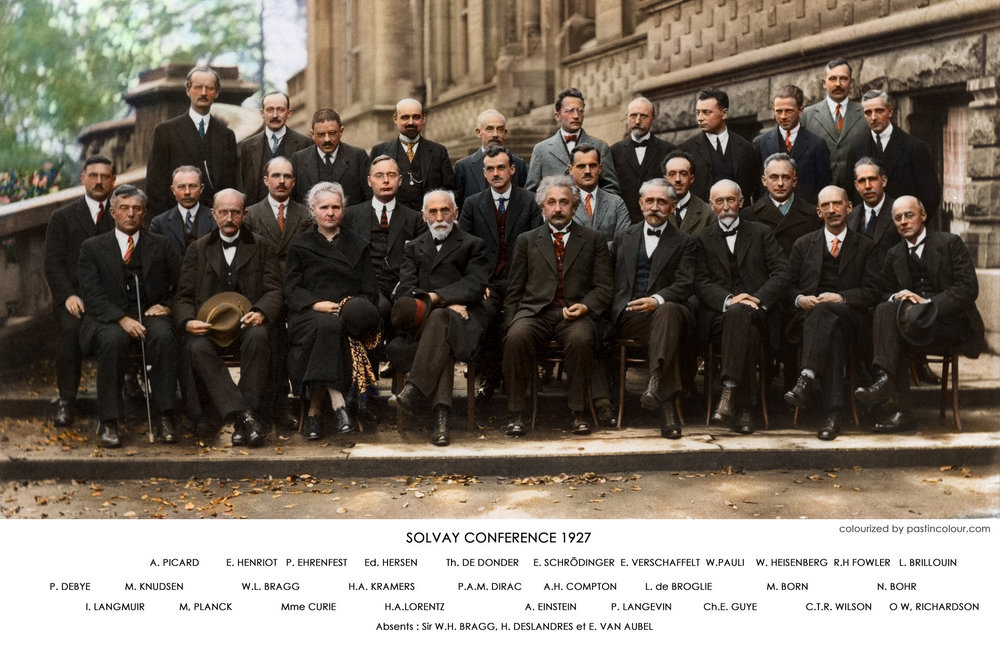
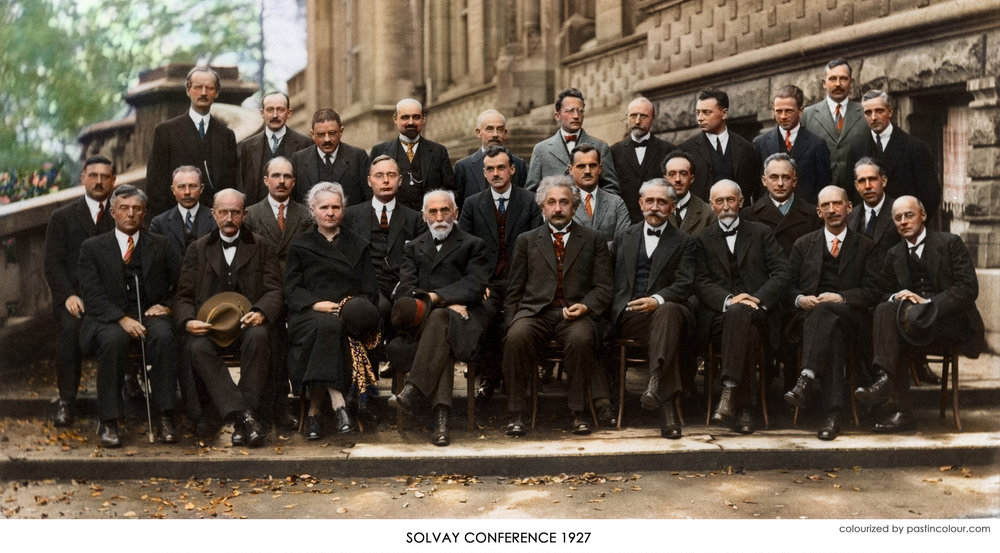
4è : maj calcul littéral

diff --git a/4_quatrieme/4x5-calcul-litteral-1/4x5-calcul-litteral.tex b/4_quatrieme/4x5-calcul-litteral-1/4x5-calcul-litteral.tex
@@ -66,7 +66,7 @@
 
 \section*{1 - Modéliser - Le domaine des mathématiques}
 
-Trouver, créer et utiliser des outils pour répondre à des questions. Le monde peut être \textbf{modéliser} par des mathématiques. Mais tous les outils ne sont pas encore créés. On ne connaît pas tout. Il y a des inconnues. 
+Trouver, créer et utiliser des outils mathématiques pour répondre à des questions. On peut \textbf{modéliser} le monde avec des mathématiques. En mathématiques, on ne travaille pas toujours avec des choses connues. On ne connaît pas directement la réponse. C'est pourquoi, on travaille avec des des inconnues. 
 
 \begin{center}
 {\fontfamily{jkplos}\selectfont 
@@ -76,8 +76,7 @@ Trouver, créer et utiliser des outils pour répondre à des questions. Le monde
 
 \begin{itemize}
   \item Ex : Équations de Navier-Stokes.
-  \item Ex : DM - Équations.
-  \item Ex : DM - Scientifiques / Informatiques.
+  \item Ex : DM - Équations, Scientifiques, Informatiques.
 \end{itemize}
 
 \section*{2 - Travailler avec une inconnue}
@@ -90,8 +89,7 @@ Trouver, créer et utiliser des outils pour répondre à des questions. Le monde
 
 \begin{itemize}
   \item Ex : Mettre en équations.
-  \item Ex et COR : pb bâton.
-  \item Ex et COR : pb immeuble.   
+  \item Ex et COR : pb bâton puis pb immeuble.   
 \end{itemize}
 
 
@@ -102,7 +100,7 @@ Trouver, créer et utiliser des outils pour répondre à des questions. Le monde
   \item[4.] Vérification des résultats. On reporte les résultats trouvés dans l'énoncé et on vérifie notre solution.
 \end{enumerate}
 
-On ne s'intéresse plus au résultat d'un calcul mais on cherche à écrire une équations avec des \textbf{expressions}. La résolution vient quand cela est possible dans un second temps. \textbf{Il n'est pas possible de résoudre directement des équations avec une calculatrice collège.}
+On ne s'intéresse plus au résultat d'un calcul, on ne peut pas toujours avoir la réponse directement. On cherche à écrire une équation avec des \textbf{expressions}. La résolution vient quand cela est possible dans un second temps. \textbf{Il n'est pas possible de résoudre directement des équations avec une calculatrice collège.}
 
 \section*{4 - Résolution d'équations}
 

diff --git a/4_quatrieme/4x5-calcul-litteral-1/4x5-calcul-litteral-cs.tex b/4_quatrieme/4x5-calcul-litteral-1/4x5-calcul-litteral-cs.tex
@@ -41,7 +41,6 @@
 \begin{document}
 
 
-
 \setlength{\columnseprule}{1pt}
 
 \horrule{2px}
@@ -49,22 +48,17 @@
 \horrule{2px}
 \vspace{-1cm}
 
-\subsection*{Les grands scientifiques - Congrès de 1927 - Solvay}
+\subsection*{Les domaines de l'informatique}
 
-Après avoir entouré votre scientifique (Fait en classe !). 
+Lancer la vidéo sur Youtube : \url{https://youtu.be/SzJ46YA_RaA}
 
-\textbf{Marquer son nom, son prénom en gros, mettre une photo, la date et le lieu de naissance et marquer quelques phrases sur leurs domaines d'études ou découvertes.}
+Après avoir choisi un domaine informatique parmi tous ceux qui sont encadrés. 
+
+\textbf{Marquer le titre en gros, mettre une traduction, expliquer en quelques phrases et mettre quelques photos ou dessins si cela est possible.}
 
     \begin{figure}[H]
         \centering
-        \includegraphics[width=0.8\linewidth]{4x5-calcul-litteral-1/sources/solvay.png}
+        \includegraphics[width=0.8\linewidth]{4x5-calcul-litteral-1/sources/compsci-2.png}
   \end{figure}
 
-\begin{center}
-\textsc{A. Picard, E. Henriot P. Ehrenfest, Ed Hersen, Th de Donder, E. Schrödinger, E. Verschaffelt, W. Pauli, W. Heisenberg, R.H. Fowler, L. Brillouin.}
-
-\textsc{P. Debye, M. Knudsen, W.L. Bragg, H.A. Kramers, P.A.M. Dirac, A.H. Compton, L. de Broglie, M. Born, N. Bohr.}
-
-\textsc{I. Langmuir, M. Planck, M. Curie, H.A. Lorentz, A. Einstein, P. Langevin, Ch.E Guye, C.T.R Wilson, O.W. Richardson.}
-\end{center}
 \end{document}

diff --git a/4_quatrieme/4x5-calcul-litteral-1/4x5-calcul-litteral-pp.tex b/4_quatrieme/4x5-calcul-litteral-1/4x5-calcul-litteral-pp.tex
@@ -63,7 +63,7 @@
 \section*{Le Petit Prince}
 
 \textbf{Le Petit Prince} est un court roman très connu écrit par Antoine de Saint-Exupéry. 
-C'est une œuvre poétique et philosophique qui prends l'apparence d'un conte pour enfants. 
+C'est une œuvre poétique et philosophique qui prend l'apparence d'un conte pour enfants. 
 
 \begin{center}
   {\fontfamily{jkplos}\selectfont \og On ne voit bien qu'avec le cœur. L'essentiel est invisible pour les yeux. \fg }\\
